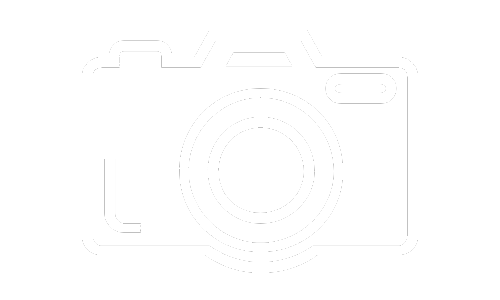
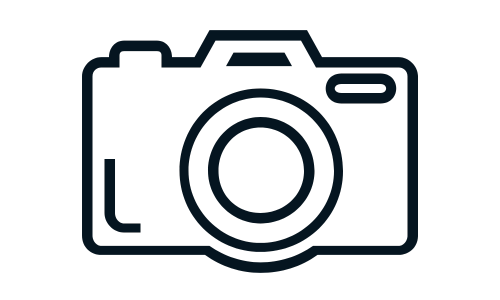
Mudando de preto para branco

Changed region(s): [[0.15, 0.09, 0.84, 0.93]]

diff --git a/servicos/index.html b/servicos/index.html
@@ -4,7 +4,7 @@ Orçamento
 Oferecemos serviços especializados em filmagem aérea com drones, fotografia profissional
         e produção de vídeos corporativos, sempre com foco na qualidade e satisfação do cliente.
 </p> </div> </div> </section> <section class="py-20 bg-dark-lighter"> <div class="max-w-7xl mx-auto px-4 "> <div class="grid md:grid-cols-3 gap-8"> <div class="bg-dark p-8 rounded-lg border border-gray-700/50 hover:border-primary-light transition-colors"> <div class="w-full h-48 mb-6 overflow-hidden rounded-lg"> <img src="/images/drone.png" alt="Filmagem com Drones" class="w-full h-full object-cover"> </div> <h3 class="text-xl font-bold mb-4 text-white">Filmagem com Drones</h3> <p class="text-gray-300 mb-6">Captação aérea profissional para eventos, publicidade, programas e projetos únicos.</p> <ul class="space-y-2"> <li class="flex items-center text-sm text-gray-300"> <svg class="w-4 h-4 text-primary-light mr-2" fill="currentColor" viewBox="0 0 20 20"> <path d="M16.707 5.293a1 1 0 010 1.414l-8 8a1 1 0 01-1.414 0l-4-4a1 1 0 011.414-1.414L8 12.586l7.293-7.293a1 1 0 011.414 0z"></path> </svg> Imagens em 4K 60fps </li><li class="flex items-center text-sm text-gray-300"> <svg class="w-4 h-4 text-primary-light mr-2" fill="currentColor" viewBox="0 0 20 20"> <path d="M16.707 5.293a1 1 0 010 1.414l-8 8a1 1 0 01-1.414 0l-4-4a1 1 0 011.414-1.414L8 12.586l7.293-7.293a1 1 0 011.414 0z"></path> </svg> Drones profissionais </li><li class="flex items-center text-sm text-gray-300"> <svg class="w-4 h-4 text-primary-light mr-2" fill="currentColor" viewBox="0 0 20 20"> <path d="M16.707 5.293a1 1 0 010 1.414l-8 8a1 1 0 01-1.414 0l-4-4a1 1 0 011.414-1.414L8 12.586l7.293-7.293a1 1 0 011.414 0z"></path> </svg> Pilotos certificados </li><li class="flex items-center text-sm text-gray-300"> <svg class="w-4 h-4 text-primary-light mr-2" fill="currentColor" viewBox="0 0 20 20"> <path d="M16.707 5.293a1 1 0 010 1.414l-8 8a1 1 0 01-1.414 0l-4-4a1 1 0 011.414-1.414L8 12.586l7.293-7.293a1 1 0 011.414 0z"></path> </svg> Licenças ANAC </li><li class="flex items-center text-sm text-gray-300"> <svg class="w-4 h-4 text-primary-light mr-2" fill="currentColor" viewBox="0 0 20 20"> <path d="M16.707 5.293a1 1 0 010 1.414l-8 8a1 1 0 01-1.414 0l-4-4a1 1 0 011.414-1.414L8 12.586l7.293-7.293a1 1 0 011.414 0z"></path> </svg> Seguro RETA </li> </ul> </div><div class="bg-dark p-8 rounded-lg border border-gray-700/50 hover:border-primary-light transition-colors"> <div class="w-full h-48 mb-6 overflow-hidden rounded-lg"> <img src="/images/photo.png" alt="Fotografia Profissional" class="w-full h-full object-cover"> </div> <h3 class="text-xl font-bold mb-4 text-white">Fotografia Profissional</h3> <p class="text-gray-300 mb-6">Ensaios fotográficos, eventos corporativos e campanhas publicitárias.</p> <ul class="space-y-2"> <li class="flex items-center text-sm text-gray-300"> <svg class="w-4 h-4 text-primary-light mr-2" fill="currentColor" viewBox="0 0 20 20"> <path d="M16.707 5.293a1 1 0 010 1.414l-8 8a1 1 0 01-1.414 0l-4-4a1 1 0 011.414-1.414L8 12.586l7.293-7.293a1 1 0 011.414 0z"></path> </svg> Equipamentos Profissionais </li><li class="flex items-center text-sm text-gray-300"> <svg class="w-4 h-4 text-primary-light mr-2" fill="currentColor" viewBox="0 0 20 20"> <path d="M16.707 5.293a1 1 0 010 1.414l-8 8a1 1 0 01-1.414 0l-4-4a1 1 0 011.414-1.414L8 12.586l7.293-7.293a1 1 0 011.414 0z"></path> </svg> Fotógrafos com ampla experiência </li><li class="flex items-center text-sm text-gray-300"> <svg class="w-4 h-4 text-primary-light mr-2" fill="currentColor" viewBox="0 0 20 20"> <path d="M16.707 5.293a1 1 0 010 1.414l-8 8a1 1 0 01-1.414 0l-4-4a1 1 0 011.414-1.414L8 12.586l7.293-7.293a1 1 0 011.414 0z"></path> </svg> Edição profissional </li><li class="flex items-center text-sm text-gray-300"> <svg class="w-4 h-4 text-primary-light mr-2" fill="currentColor" viewBox="0 0 20 20"> <path d="M16.707 5.293a1 1 0 010 1.414l-8 8a1 1 0 01-1.414 0l-4-4a1 1 0 011.414-1.414L8 12.586l7.293-7.293a1 1 0 011.414 0z"></path> </svg> Entrega rápida </li> </ul> </div><div class="bg-dark p-8 rounded-lg border border-gray-700/50 hover:border-primary-light transition-colors"> <div class="w-full h-48 mb-6 overflow-hidden rounded-lg"> <img src="/images/project.png" alt="Projetos especiais" class="w-full h-full object-cover"> </div> <h3 class="text-xl font-bold mb-4 text-white">Projetos especiais</h3> <p class="text-gray-300 mb-6">Produção audiovisual para projetos personalizados</p> <ul class="space-y-2"> <li class="flex items-center text-sm text-gray-300"> <svg class="w-4 h-4 text-primary-light mr-2" fill="currentColor" viewBox="0 0 20 20"> <path d="M16.707 5.293a1 1 0 010 1.414l-8 8a1 1 0 01-1.414 0l-4-4a1 1 0 011.414-1.414L8 12.586l7.293-7.293a1 1 0 011.414 0z"></path> </svg> Roteirização </li><li class="flex items-center text-sm text-gray-300"> <svg class="w-4 h-4 text-primary-light mr-2" fill="currentColor" viewBox="0 0 20 20"> <path d="M16.707 5.293a1 1 0 010 1.414l-8 8a1 1 0 01-1.414 0l-4-4a1 1 0 011.414-1.414L8 12.586l7.293-7.293a1 1 0 011.414 0z"></path> </svg> Captação em alta definição </li><li class="flex items-center text-sm text-gray-300"> <svg class="w-4 h-4 text-primary-light mr-2" fill="currentColor" viewBox="0 0 20 20"> <path d="M16.707 5.293a1 1 0 010 1.414l-8 8a1 1 0 01-1.414 0l-4-4a1 1 0 011.414-1.414L8 12.586l7.293-7.293a1 1 0 011.414 0z"></path> </svg> Colaboração com o cliente </li><li class="flex items-center text-sm text-gray-300"> <svg class="w-4 h-4 text-primary-light mr-2" fill="currentColor" viewBox="0 0 20 20"> <path d="M16.707 5.293a1 1 0 010 1.414l-8 8a1 1 0 01-1.414 0l-4-4a1 1 0 011.414-1.414L8 12.586l7.293-7.293a1 1 0 011.414 0z"></path> </svg> Edição profissional </li> </ul> </div> </div> </div> </section>   <section class="py-20"> <div class="container"> <div class="mb-12 text-center"> <h2 class="text-4xl font-bold mb-4 text-white">Entre em Contato</h2>  <p class="text-xl text-gray-300">Estamos prontos para atender seu projeto</p>  </div> <div class="grid md:grid-cols-2 gap-12"> <div> <h3 class="text-2xl font-bold mb-6">Fale Conosco</h3> <style>astro-island,astro-slot,astro-static-slot{display:contents}</style><script>(()=>{var e=async t=>{await(await t())()};(self.Astro||(self.Astro={})).load=e;window.dispatchEvent(new Event("astro:load"));})();;(()=>{var A=Object.defineProperty;var g=(i,o,a)=>o in i?A(i,o,{enumerable:!0,configurable:!0,writable:!0,value:a}):i[o]=a;var d=(i,o,a)=>g(i,typeof o!="symbol"?o+"":o,a);{let i={0:t=>m(t),1:t=>a(t),2:t=>new RegExp(t),3:t=>new Date(t),4:t=>new Map(a(t)),5:t=>new Set(a(t)),6:t=>BigInt(t),7:t=>new URL(t),8:t=>new Uint8Array(t),9:t=>new Uint16Array(t),10:t=>new Uint32Array(t),11:t=>1/0*t},o=t=>{let[l,e]=t;return l in i?i[l](e):void 0},a=t=>t.map(o),m=t=>typeof t!="object"||t===null?t:Object.fromEntries(Object.entries(t).map(([l,e])=>[l,o(e)]));class y extends HTMLElement{constructor(){super(...arguments);d(this,"Component");d(this,"hydrator");d(this,"hydrate",async()=>{var b;if(!this.hydrator||!this.isConnected)return;let e=(b=this.parentElement)==null?void 0:b.closest("astro-island[ssr]");if(e){e.addEventListener("astro:hydrate",this.hydrate,{once:!0});return}let c=this.querySelectorAll("astro-slot"),n={},h=this.querySelectorAll("template[data-astro-template]");for(let r of h){let s=r.closest(this.tagName);s!=null&&s.isSameNode(this)&&(n[r.getAttribute("data-astro-template")||"default"]=r.innerHTML,r.remove())}for(let r of c){let s=r.closest(this.tagName);s!=null&&s.isSameNode(this)&&(n[r.getAttribute("name")||"default"]=r.innerHTML)}let p;try{p=this.hasAttribute("props")?m(JSON.parse(this.getAttribute("props"))):{}}catch(r){let s=this.getAttribute("component-url")||"<unknown>",v=this.getAttribute("component-export");throw v&&(s+=` (export ${v})`),console.error(`[hydrate] Error parsing props for component ${s}`,this.getAttribute("props"),r),r}let u;await this.hydrator(this)(this.Component,p,n,{client:this.getAttribute("client")}),this.removeAttribute("ssr"),this.dispatchEvent(new CustomEvent("astro:hydrate"))});d(this,"unmount",()=>{this.isConnected||this.dispatchEvent(new CustomEvent("astro:unmount"))})}disconnectedCallback(){document.removeEventListener("astro:after-swap",this.unmount),document.addEventListener("astro:after-swap",this.unmount,{once:!0})}connectedCallback(){if(!this.hasAttribute("await-children")||document.readyState==="interactive"||document.readyState==="complete")this.childrenConnectedCallback();else{let e=()=>{document.removeEventListener("DOMContentLoaded",e),c.disconnect(),this.childrenConnectedCallback()},c=new MutationObserver(()=>{var n;((n=this.lastChild)==null?void 0:n.nodeType)===Node.COMMENT_NODE&&this.lastChild.nodeValue==="astro:end"&&(this.lastChild.remove(),e())});c.observe(this,{childList:!0}),document.addEventListener("DOMContentLoaded",e)}}async childrenConnectedCallback(){let e=this.getAttribute("before-hydration-url");e&&await import(e),this.start()}async start(){let e=JSON.parse(this.getAttribute("opts")),c=this.getAttribute("client");if(Astro[c]===void 0){window.addEventListener(`astro:${c}`,()=>this.start(),{once:!0});return}try{await Astro[c](async()=>{let n=this.getAttribute("renderer-url"),[h,{default:p}]=await Promise.all([import(this.getAttribute("component-url")),n?import(n):()=>()=>{}]),u=this.getAttribute("component-export")||"default";if(!u.includes("."))this.Component=h[u];else{this.Component=h;for(let f of u.split("."))this.Component=this.Component[f]}return this.hydrator=p,this.hydrate},e,this)}catch(n){console.error(`[astro-island] Error hydrating ${this.getAttribute("component-url")}`,n)}}attributeChangedCallback(){this.hydrate()}}d(y,"observedAttributes",["props"]),customElements.get("astro-island")||customElements.define("astro-island",y)}})();</script><astro-island uid="zqYRf" prefix="r3" component-url="/_astro/ContactForm.CUwTkY9Y.js" component-export="default" renderer-url="/_astro/client.BvgsbLDD.js" props="{}" ssr client="load" opts="{&quot;name&quot;:&quot;ContactForm&quot;,&quot;value&quot;:true}" await-children><form class="space-y-4"><div><label for="name" class="block text-sm font-medium text-gray-200 mb-1">Nome</label><input type="text" id="name" name="name" class="w-full px-4 py-2 border rounded-lg focus:ring-2 focus:ring-primary border-gray-300" value=""/></div><div><label for="email" class="block text-sm font-medium text-gray-200 mb-1">E-mail</label><input type="email" id="email" name="email" class="w-full px-4 py-2 border rounded-lg focus:ring-2 focus:ring-primary border-gray-300" value=""/></div><div><label for="phone" class="block text-sm font-medium text-gray-200 mb-1">Telefone</label><input type="text" id="phone" name="phone" class="w-full px-4 py-2 border rounded-lg focus:ring-2 focus:ring-primary border-gray-300" value=""/></div><div><label for="service" class="block text-sm font-medium text-gray-200 mb-1">Serviço</label><select id="service" name="service" class="w-full px-4 py-2 border rounded-lg focus:ring-2 focus:ring-primary border-gray-300"><option value="" selected="">Selecione um serviço</option><option value="Serviço 1">Serviço 1</option><option value="Serviço 2">Serviço 2</option></select></div><div><label for="message" class="block text-sm font-medium text-gray-200 mb-1">Mensagem</label><textarea id="message" name="message" class="w-full px-4 py-2 border rounded-lg focus:ring-2 focus:ring-primary border-gray-300"></textarea></div><button type="submit" class="w-full bg-primary text-white py-3 rounded-lg hover:bg-primary/90 transition-colors">Enviar Mensagem</button></form><!--astro:end--></astro-island> </div> <div> <h3 class="text-2xl font-bold mb-6">Informações de Contato</h3> <div class="space-y-6"> <div class="flex items-start gap-4"> <div class="w-12 h-12 bg-gray-100/10 rounded-full flex items-center justify-center"> <svg xmlns="http://www.w3.org/2000/svg" fill="none" viewBox="0 0 24 24" stroke-width="1.5" stroke="currentColor" aria-hidden="true" data-slot="icon" class="w-6 h-6 text-gray-100"><path stroke-linecap="round" stroke-linejoin="round" d="M2.25 6.75c0 8.284 6.716 15 15 15h2.25a2.25 2.25 0 0 0 2.25-2.25v-1.372c0-.516-.351-.966-.852-1.091l-4.423-1.106c-.44-.11-.902.055-1.173.417l-.97 1.293c-.282.376-.769.542-1.21.38a12.035 12.035 0 0 1-7.143-7.143c-.162-.441.004-.928.38-1.21l1.293-.97c.363-.271.527-.734.417-1.173L6.963 3.102a1.125 1.125 0 0 0-1.091-.852H4.5A2.25 2.25 0 0 0 2.25 4.5v2.25Z"></path></svg> </div> <div> <h4 class="font-bold">Telefone</h4> <a href="https://wa.me/5541998880303" class="text-gray-600 hover:text-gray-300 transition-colors"> +55 (41) 99888-0303 </a> </div> </div><div class="flex items-start gap-4"> <div class="w-12 h-12 bg-gray-100/10 rounded-full flex items-center justify-center"> <svg xmlns="http://www.w3.org/2000/svg" fill="none" viewBox="0 0 24 24" stroke-width="1.5" stroke="currentColor" aria-hidden="true" data-slot="icon" class="w-6 h-6 text-gray-100"><path stroke-linecap="round" stroke-linejoin="round" d="M21.75 6.75v10.5a2.25 2.25 0 0 1-2.25 2.25h-15a2.25 2.25 0 0 1-2.25-2.25V6.75m19.5 0A2.25 2.25 0 0 0 19.5 4.5h-15a2.25 2.25 0 0 0-2.25 2.25m19.5 0v.243a2.25 2.25 0 0 1-1.07 1.916l-7.5 4.615a2.25 2.25 0 0 1-2.36 0L3.32 8.91a2.25 2.25 0 0 1-1.07-1.916V6.75"></path></svg> </div> <div> <h4 class="font-bold">E-mail</h4> <a href="mailto:contato@lytspot.com.br" class="text-gray-600 hover:text-gray-300 transition-colors"> contato@lytspot.com.br </a> </div> </div><div class="flex items-start gap-4"> <div class="w-12 h-12 bg-gray-100/10 rounded-full flex items-center justify-center"> <svg xmlns="http://www.w3.org/2000/svg" fill="none" viewBox="0 0 24 24" stroke-width="1.5" stroke="currentColor" aria-hidden="true" data-slot="icon" class="w-6 h-6 text-gray-100"><path stroke-linecap="round" stroke-linejoin="round" d="M15 10.5a3 3 0 1 1-6 0 3 3 0 0 1 6 0Z"></path><path stroke-linecap="round" stroke-linejoin="round" d="M19.5 10.5c0 7.142-7.5 11.25-7.5 11.25S4.5 17.642 4.5 10.5a7.5 7.5 0 1 1 15 0Z"></path></svg> </div> <div> <h4 class="font-bold">Endereço</h4> <a href="#" class="text-gray-600 hover:text-gray-300 transition-colors"> Curitiba, PR </a> </div> </div> </div> </div> </div> </div> </section>  </main> <footer class="bg-dark-lighter text-gray-200 pt-16 pb-8 border-t border-gray-700/50"> <div class="container"> <div class="grid md:grid-cols-4 gap-8 mb-12"> <div> <img src="/images/Branco fundo transparente.png" alt="LYTSPOT" class="h-8 mb-4"> <p class="text-gray-300">
-Especialistas em captura de imagens profissionais com drones e câmeras de alta performance.
+Especialistas em captura de imagens profissionais com drones e equipamenos de alta qualidade com imagens em 4k.
 </p> </div> <div> <h3 class="text-lg font-bold mb-4 text-white">Empresa</h3> <ul class="space-y-2"> <li> <a href="/sobre" class="text-gray-300 hover:text-white transition-colors"> Sobre </a> </li><li> <a href="/servicos" class="text-gray-300 hover:text-white transition-colors"> Serviços </a> </li><li> <a href="/portfolio" class="text-gray-300 hover:text-white transition-colors"> portfolio </a> </li><li> <a href="/contato" class="text-gray-300 hover:text-white transition-colors"> Contato </a> </li> </ul> </div> <div> <h3 class="text-lg font-bold mb-4 text-white">Serviços</h3> <ul class="space-y-2"> <li> <a href="/servicos#drone" class="text-gray-300 hover:text-white transition-colors"> Filmagem com Drone </a> </li><li> <a href="/servicos#foto" class="text-gray-300 hover:text-white transition-colors"> Fotografia Profissional </a> </li><li> <a href="/servicos#video" class="text-gray-300 hover:text-white transition-colors"> Vídeos Corporativos </a> </li> </ul> </div> <div> <h3 class="text-lg font-bold mb-4 text-white">Redes Sociais</h3> <ul class="space-y-2"> <li> <a href="https://instagram.com/lytspot" target="_blank" rel="noopener noreferrer" class="text-gray-300 hover:text-white transition-colors"> Instagram </a> </li><li> <a href="https://facebook.com/lytspot" target="_blank" rel="noopener noreferrer" class="text-gray-300 hover:text-white transition-colors"> Facebook </a> </li><li> <a href="https://youtube.com/lytspot" target="_blank" rel="noopener noreferrer" class="text-gray-300 hover:text-white transition-colors"> YouTube </a> </li><li> <a href="https://linkedin.com/company/lytspot" target="_blank" rel="noopener noreferrer" class="text-gray-300 hover:text-white transition-colors"> LinkedIn </a> </li> </ul> </div> </div> <div class="border-t border-gray-700/50 pt-8"> <p class="text-center text-gray-400">
 © 2025 LYTSPOT. Todos os direitos reservados.
 </p> </div> </div> </footer> </body></html>

diff --git a/src/components/contact/ContactForm.tsx b/src/components/contact/ContactForm.tsx
@@ -1,5 +1,5 @@
-import React, { useState } from "react";
-import { validateEmail, validatePhone, validateRequired } from "../../utils/validation";
+import React, { useState } from 'react';
+import { validateEmail, validatePhone, validateRequired } from '../../utils/validation';
 
 interface FormData {
   name: string;
@@ -123,7 +123,7 @@ export default function ContactForm() {
     <form onSubmit={handleSubmit} className="space-y-4">
       {/* Nome */}
       <div>
-        <label htmlFor="name" className="block text-sm font-medium text-gray-200 mb-1">
+        <label htmlFor="name" className="block text-sm font-medium text-dark-lighter mb-1">
           Nome
         </label>
         <input
@@ -141,7 +141,7 @@ export default function ContactForm() {
 
       {/* E-mail */}
       <div>
-        <label htmlFor="email" className="block text-sm font-medium text-gray-200 mb-1">
+        <label htmlFor="email" className="block text-sm font-medium text-dark-lighter mb-1">
           E-mail
         </label>
         <input
@@ -159,7 +159,7 @@ export default function ContactForm() {
 
       {/* Telefone */}
       <div>
-        <label htmlFor="phone" className="block text-sm font-medium text-gray-200 mb-1">
+        <label htmlFor="phone" className="block text-sm font-medium text-dark-lighter mb-1">
           Telefone
         </label>
         <input
@@ -177,7 +177,7 @@ export default function ContactForm() {
 
       {/* Serviço */}
       <div>
-        <label htmlFor="service" className="block text-sm font-medium text-gray-200 mb-1">
+        <label htmlFor="service" className="block text-sm font-medium text-dark-lighter mb-1">
           Serviço
         </label>
         <select
@@ -192,16 +192,18 @@ export default function ContactForm() {
           <option value="">Selecione um serviço</option>
           <option value="Serviço 1">Festas e comemorações</option>
           <option value="Serviço 2">Imagens corporativas</option>
-          <option value="Serviço 3">Registros Arquiteturas</option>
+          <option value="Serviço 3">Arquitetura</option>
           <option value="Serviço 4">Projetos especiais</option>
-          <option value="Serviço 5">Outros assuntos</option>
+          <option value="Serviço 5">Aventuras em família</option>
+          <option value="Serviço 6">Aventuras entre amigos</option>
+          <option value="Serviço 7">Outros assuntos</option>
         </select>
         {errors.service && <p className="text-red-500 text-sm mt-1">{errors.service}</p>}
       </div>
 
       {/* Mensagem */}
       <div>
-        <label htmlFor="message" className="block text-sm font-medium text-gray-200 mb-1">
+        <label htmlFor="message" className="block text-sm font-medium text-dark-lighter mb-1">
           Mensagem
         </label>
         <textarea

diff --git a/src/styles/global.css b/src/styles/global.css
@@ -69,7 +69,7 @@ body {
 
 /* Tipografia */
 h1 {
-  @apply text-4xl font-bold leading-tight text-primary;
+  @apply text-4xl font-bold leading-tight text-gray-500;
 }
 
 h2 {
@@ -119,7 +119,7 @@ small {
 }
 
 .section-title {
-  @apply text-3xl md:text-4xl font-bold mb-4 text-primary;
+  @apply text-3xl md:text-4xl font-bold mb-4 text-gray-500;
 }
 
 .section-subtitle {

diff --git a/src/data/portfolioItems.ts b/src/data/portfolioItems.ts
@@ -54,7 +54,7 @@ export const portfolioItems: PortfolioItem[] = [
   },
   {
     id: 'arquitetura',
-    title: 'Registros Arquiteturas',
+    title: 'Arquitetura',
     category: 'arquitetura',
     media: [
       { url: getAssetUrl('images/portimages/arquitetura/arquitetura1.jpeg'), type: 'image' },
